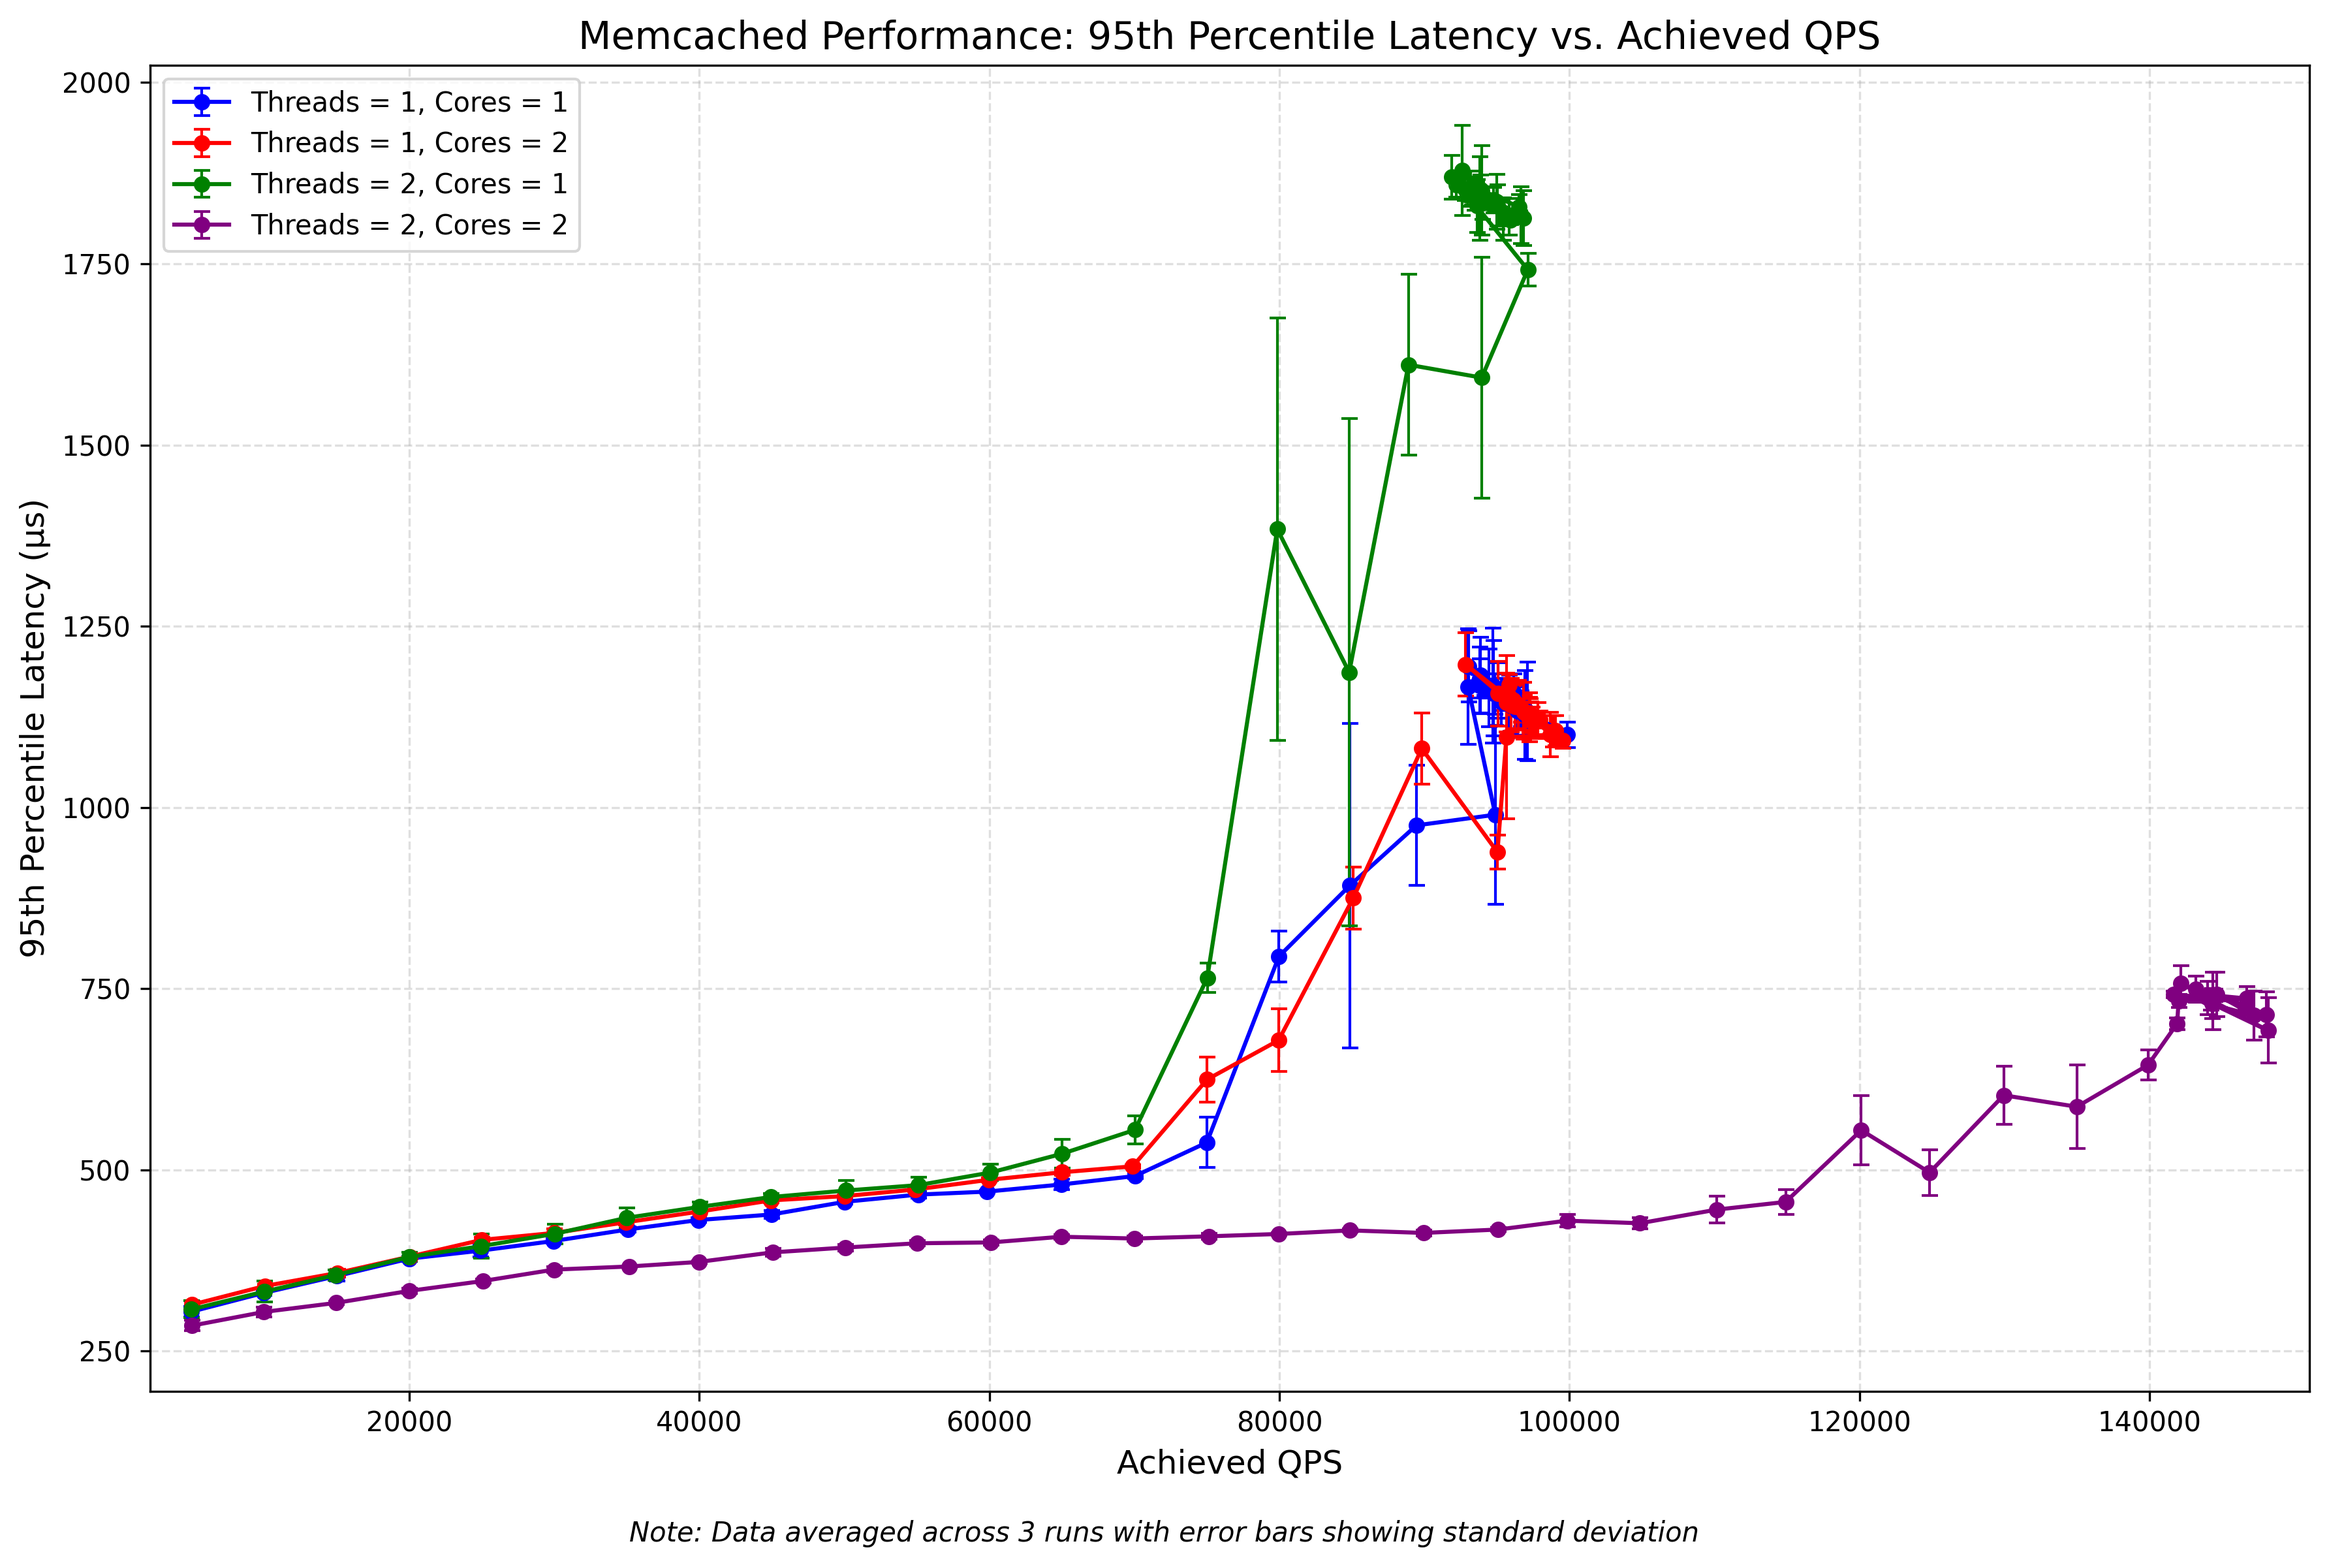
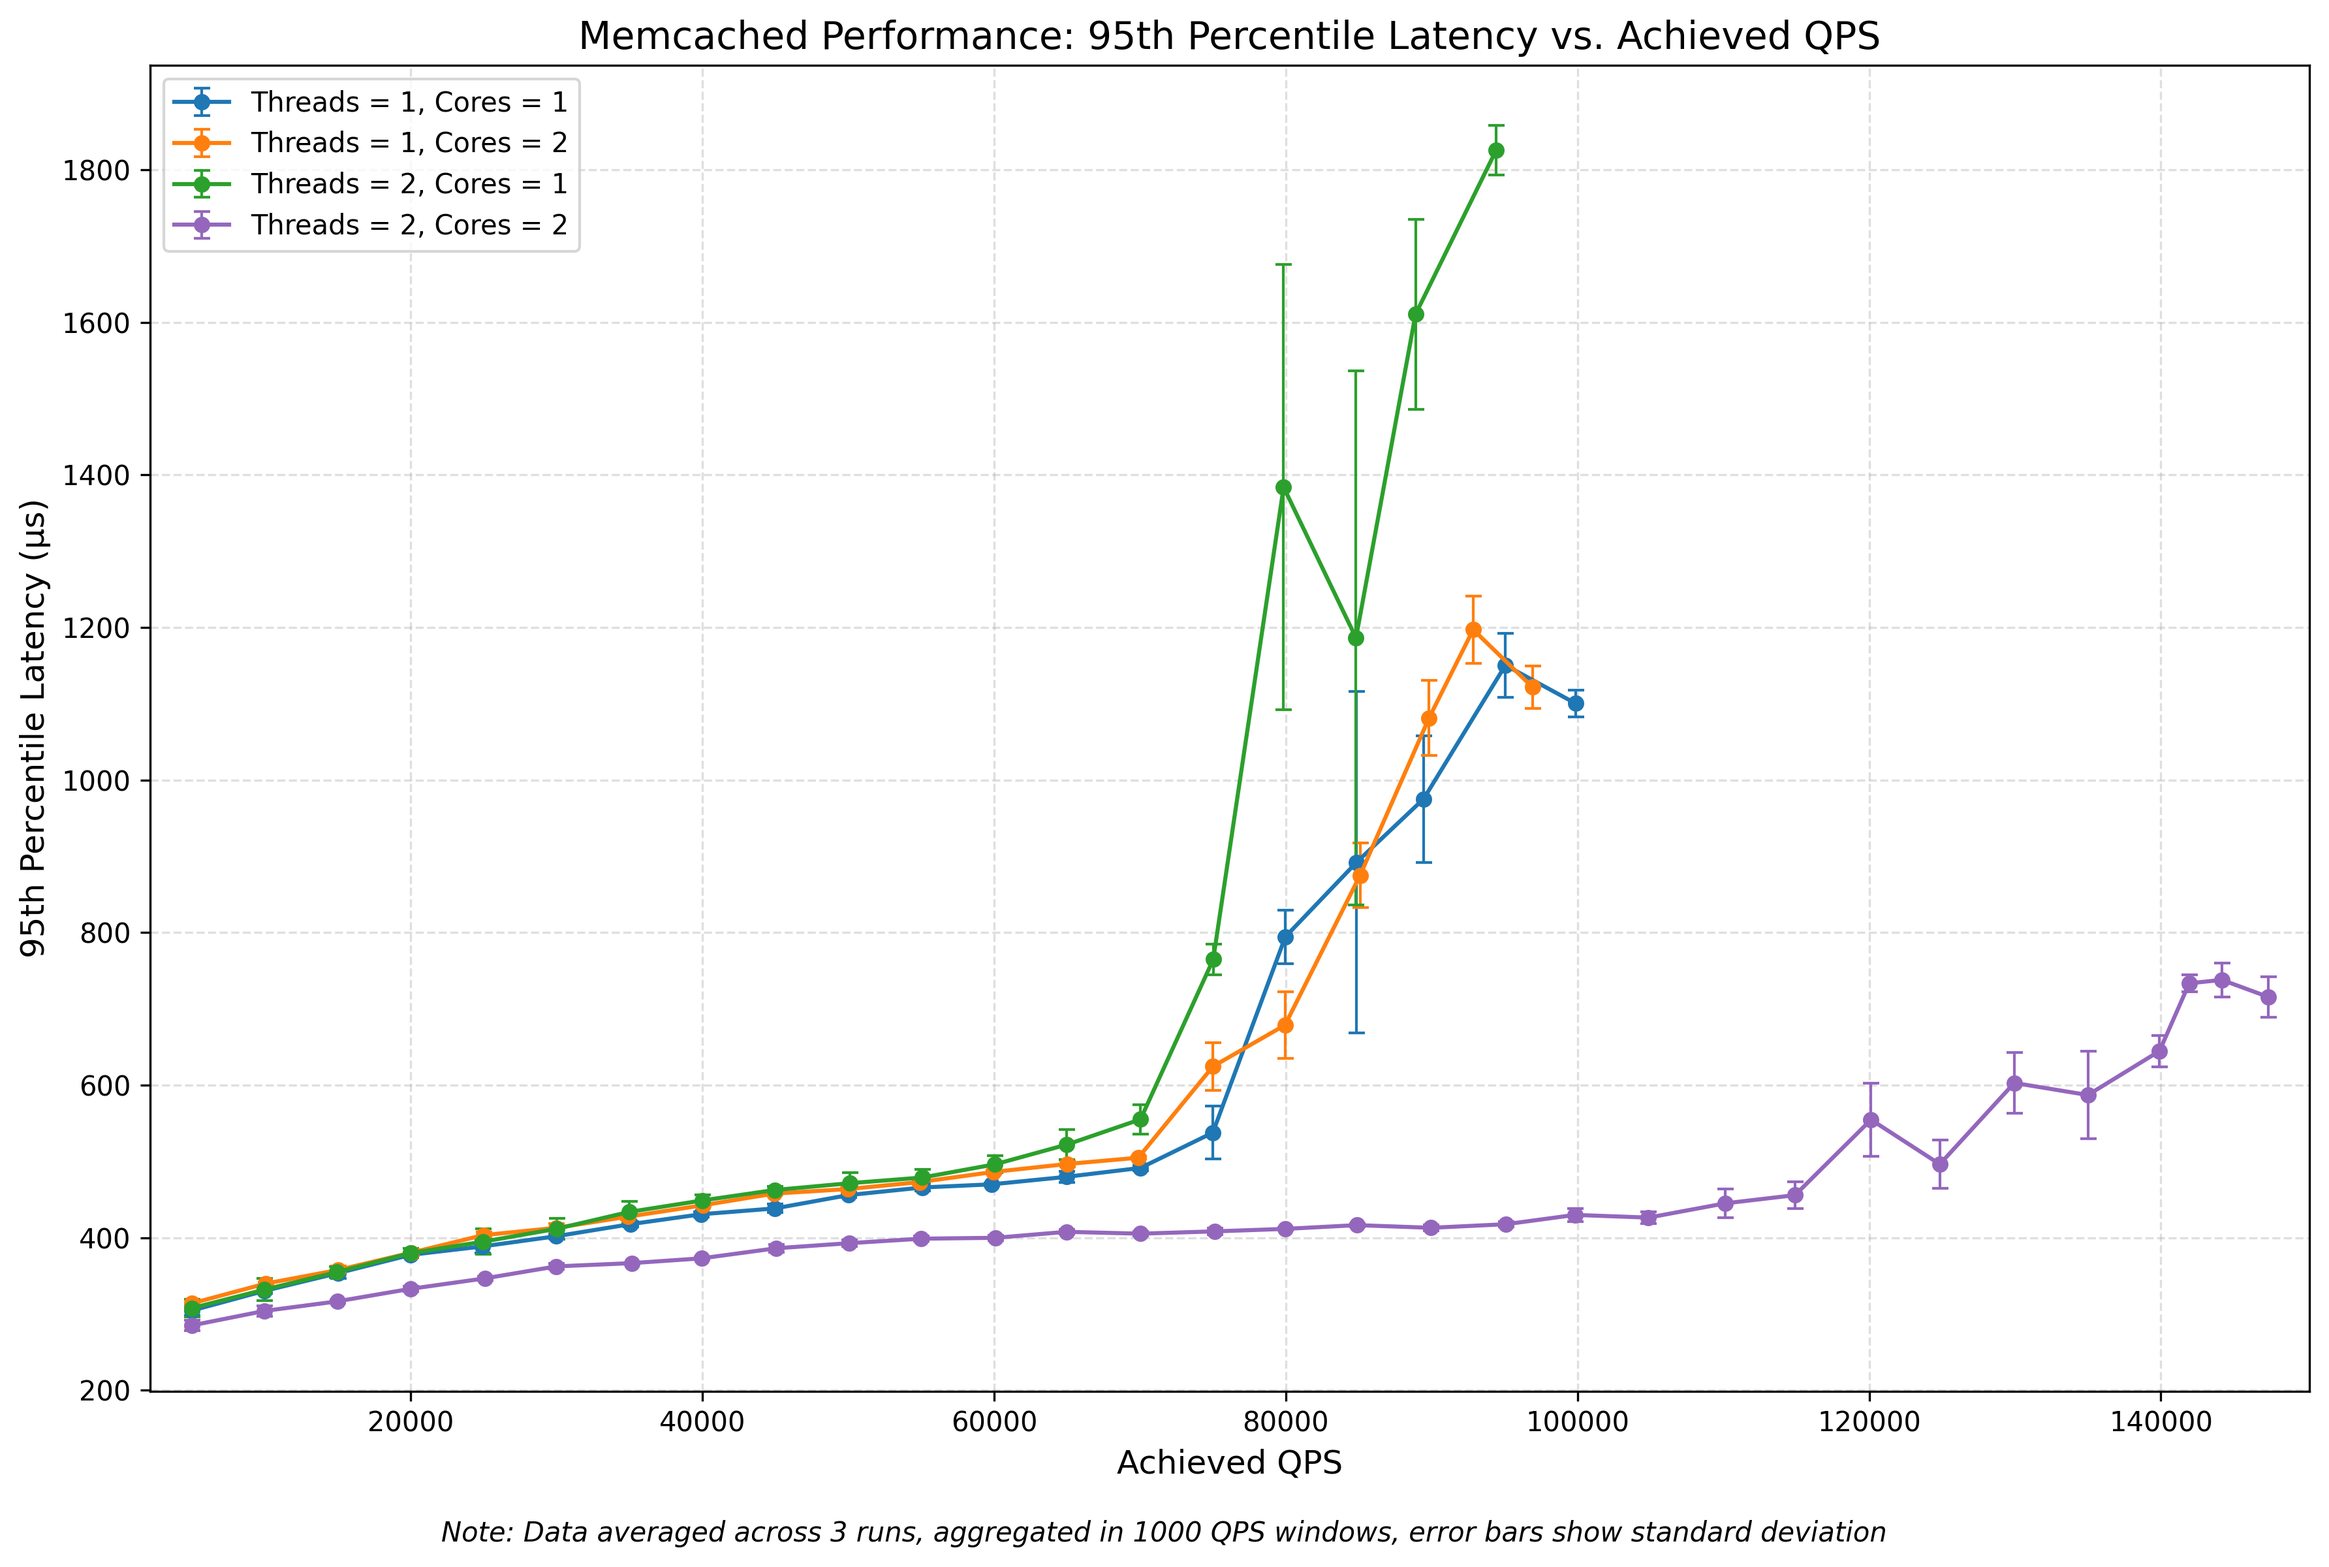
improve part4_1 plots

diff --git a/part4/vis_part4_1.py b/part4/vis_part4_1.py
@@ -3,8 +3,49 @@ import mcPerfLogs
 import os
 import numpy as np
 from collections import defaultdict
+import sys
 
-def main():
+def aggregate_qps_data(qps_data, latency_data, latency_std, window_size):
+    """Aggregate data points where QPS values are within a specified window size."""
+    # Sort all data by QPS
+    combined_data = list(zip(qps_data, latency_data, latency_std))
+    combined_data.sort(key=lambda x: x[0])
+    
+    aggregated_qps = []
+    aggregated_latency = []
+    aggregated_latency_std = []
+
+    current_window = []
+    current_qps = None
+    
+    for qps, latency, latency_std in combined_data:
+        if current_qps is None or abs(qps - current_qps) <= window_size:
+            current_window.append((qps, latency, latency_std))
+            current_qps = qps
+        else:
+            # Calculate averages for the current window
+            avg_qps = np.mean([x[0] for x in current_window])
+            avg_latency = np.mean([x[1] for x in current_window])
+            avg_latency_std = np.mean([x[2] for x in current_window])
+
+            aggregated_qps.append(avg_qps)
+            aggregated_latency.append(avg_latency)
+            aggregated_latency_std.append(avg_latency_std)
+            # Start new window
+            current_window = [(qps, latency, latency_std)]
+            current_qps = qps
+    
+    # Process the last window
+    if current_window:
+        avg_qps = np.mean([x[0] for x in current_window])
+        avg_latency = np.mean([x[1] for x in current_window])
+        avg_latency_std = np.mean([x[2] for x in current_window])
+        aggregated_qps.append(avg_qps)
+        aggregated_latency.append(avg_latency)
+        aggregated_latency_std.append(avg_latency_std)
+    return aggregated_qps, aggregated_latency, aggregated_latency_std
+
+def main(window_size=1000):
     # Define the configurations
     configs = {
         "experiment1": {"T": 1, "C": 1, "label": "Threads = 1, Cores = 1"},
@@ -16,10 +57,9 @@ def main():
     # Create a figure with increased width
     plt.figure(figsize=(12, 8))
     
-    # Colors for each configuration
-    colors = ['blue', 'red', 'green', 'purple']
+    # Colors for each configuration using the specified HTML color codes
+    colors = ['tab:blue', 'tab:orange', 'tab:green', 'tab:purple']  # blackscholes, vips, dedup, ferret
     
-
     # Process each configuration
     for i, (exp_name, config) in enumerate(configs.items()):
         # Dictionary to store data points for each target QPS
@@ -53,9 +93,14 @@ def main():
             avg_qps.append(np.mean(qps_data[target]))
             avg_latency.append(np.mean(latency_data[target]))
             std_latency.append(np.std(latency_data[target]))
+
+        # Aggregate data points within specified window size
+        avg_qps, avg_latency, avg_latency_std = aggregate_qps_data(avg_qps, avg_latency, std_latency, window_size)
         
+        
+       
         # Plot the data with error bars and improved visibility
-        plt.errorbar(avg_qps, avg_latency, yerr=std_latency, 
+        plt.errorbar(avg_qps, avg_latency, yerr=avg_latency_std, 
                     label=config["label"], color=colors[i], 
                     marker='o', linestyle='-', linewidth=1.5, markersize=5,
                     capsize=3, capthick=1, elinewidth=1)
@@ -65,17 +110,14 @@ def main():
     plt.ylabel('95th Percentile Latency (μs)', fontsize=12)
     plt.title('Memcached Performance: 95th Percentile Latency vs. Achieved QPS', fontsize=14)
     
-    # Set y-axis to log scale
-    # plt.yscale('log')
-    
     # Add grid with appropriate alpha for log scale
     plt.grid(True, linestyle='--', alpha=0.4, which='both')
     
     # Add legend
     plt.legend(fontsize=10, loc='upper left')
     
-    # Add note about number of runs
-    plt.figtext(0.5, 0.01, 'Note: Data averaged across 3 runs with error bars showing standard deviation', 
+    # Add note about number of runs and window size
+    plt.figtext(0.5, 0.01, f'Note: Data averaged across 3 runs, aggregated in {window_size} QPS windows, error bars show standard deviation', 
                 ha='center', fontsize=10, style='italic')
     
     # Add some padding to the axes
@@ -87,8 +129,13 @@ def main():
     # Save the figure with high DPI
     plt.savefig('memcached_performance.png', dpi=300, bbox_inches='tight')
     
-    # Show the plot
-    plt.show()
 
 if __name__ == "__main__":
-    main()
+    # check if w is in the args and take next arg as window size        
+    args = sys.argv[1:]
+    window_size = 1000
+    if "-w" in args:
+        window_size = int(args[args.index("-w") + 1])
+
+    print(f"Window size: {window_size}")
+    main(window_size)

diff --git a/part4/vis_part4_1_d.py b/part4/vis_part4_1_d.py
@@ -7,7 +7,7 @@ from collections import defaultdict
 import sys
 
 
-COLORS = ['#CCA000', '#CCACCA']
+COLORS = ['tab:blue', 'tab:orange']
 
 def read_cpu_usage(file_path: str, cores: list[int]):
     """Read CPU usage data from CSV file and return as a list of (timestamp, cpu_percentages) tuples."""
